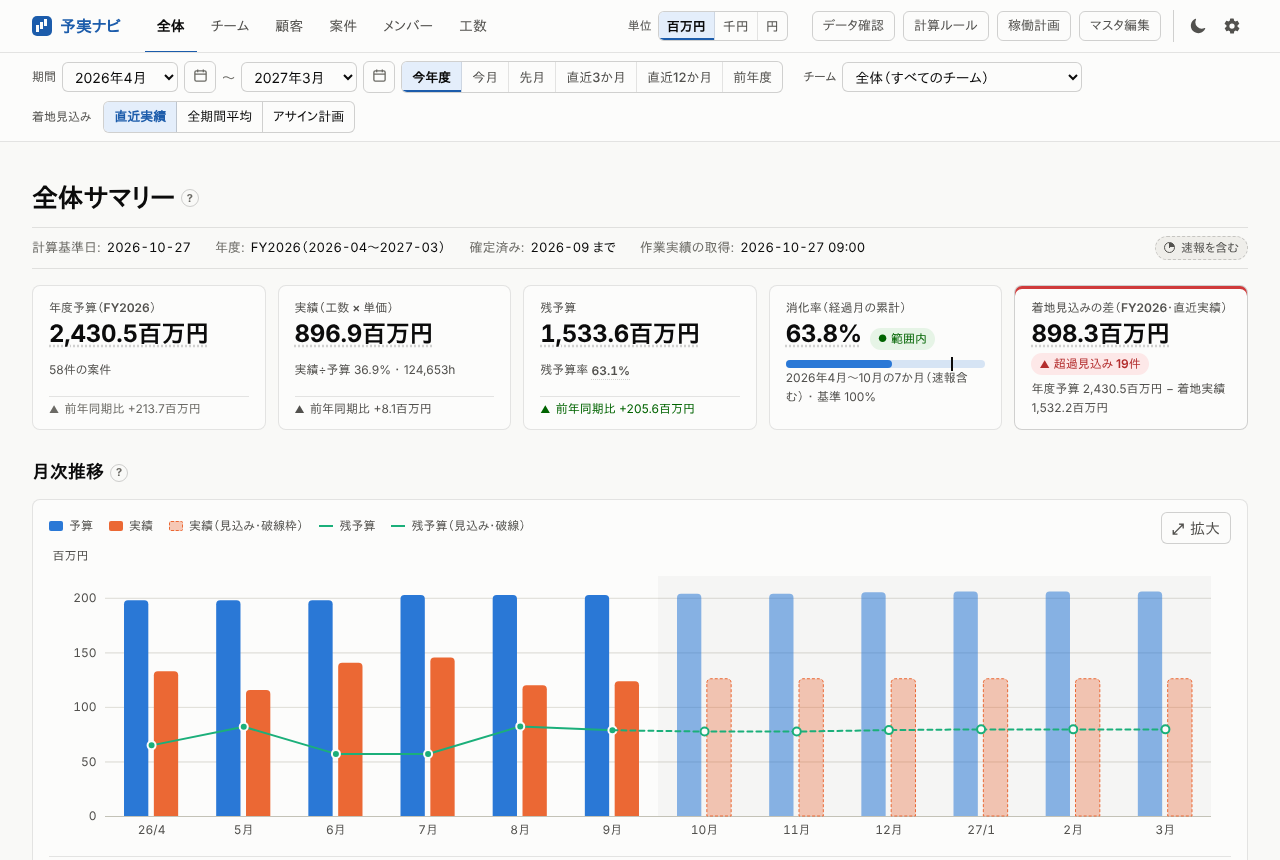
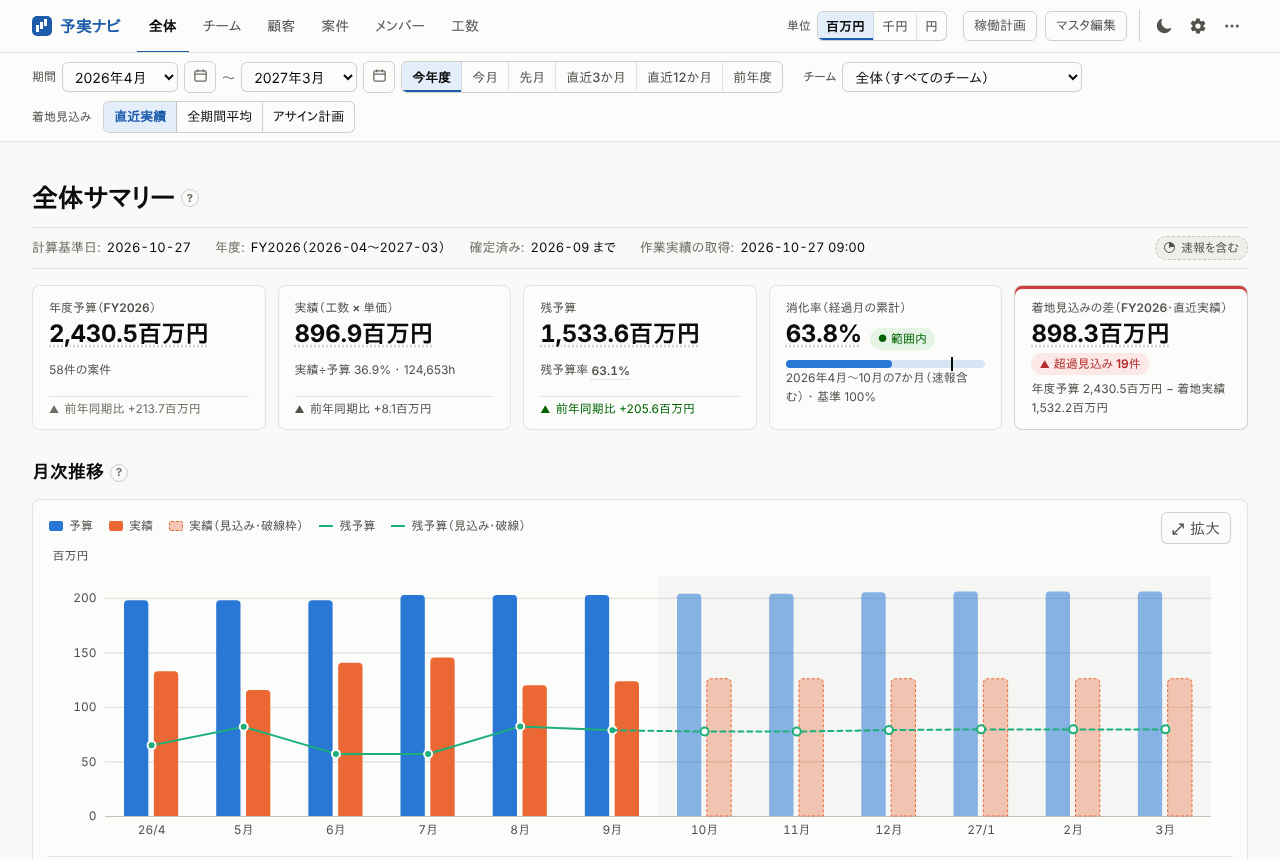
ヘッダー: 稼働計画を右上の先頭に、データ確認・計算ルールは右端「⋯」のメニューへ（SPEC §45）
- 右上のリンクは稼働計画 → マスタ編集だけ。データ確認・計算ルールは「その他」メニュー
- 2 段レイアウトの境目を 1024px に。1024px 以上は 1 段、スマホ幅は 3 段 → 2 段
- E2E: header-nav.spec 追加、navigation・qa-regressions 更新。README・SPEC・UI_NOTES・スクリーンショット更新

Claude-Session: https://claude.ai/code/session_01JvFhvLSWLAzykq6d7HdQrm

Changed region(s): [[0.5, 0.0, 0.9375, 0.0605], [0.2188, 0.0, 0.2812, 0.0605], [0.125, 0.0, 0.1562, 0.0605]]

diff --git a/observablehq.config.js b/observablehq.config.js
@@ -75,7 +75,8 @@ function contractIds() {
 
 /**
  * 上部ナビゲーション（左サイドバーは使わない）。
- * NAV = 画面の切り替えタブ、TOOLS = 右上の補助・管理リンク。match はタブを選択状態にするパス（詳細画面など）。
+ * NAV = 画面の切り替えタブ、TOOLS = 右上の業務リンク、MORE = 右端「その他」（⋯）のメニューに入れる控えめなリンク。
+ * match はタブを選択状態にするパス（詳細画面など）。
  * 新しい画面はここに足す。href は "/" 始まりで書けば Framework がページごとの相対パスに書き換える。
  */
 const NAV = [
@@ -87,10 +88,13 @@ const NAV = [
   { name: ja.app.nav.workload, path: "/workload", match: ["/workload"] },
 ];
 const TOOLS = [
-  { name: ja.app.nav.dataCheck, path: "/data-check" },
-  { name: ja.app.nav.rules, path: "/rules" },
   { name: ja.app.nav.plan, path: "/plan" },
   { name: ja.app.nav.masters, path: "/masters", badge: true },
+];
+// データ確認・計算ルールはたまに見る画面なので、目立つ場所に置かない（§45）
+const MORE = [
+  { name: ja.app.nav.dataCheck, path: "/data-check" },
+  { name: ja.app.nav.rules, path: "/rules" },
 ];
 
 const escapeHtml = (s) => String(s).replace(/[&<>"]/g, (c) => ({ "&": "&amp;", "<": "&lt;", ">": "&gt;", '"': "&quot;" })[c]);
@@ -106,12 +110,15 @@ function header({ path }) {
   const moon = `<svg class="yn-icon-moon" viewBox="0 0 24 24" width="18" height="18" aria-hidden="true"><path fill="currentColor" d="M20.7 14.6A8.5 8.5 0 0 1 9.4 3.3a.8.8 0 0 0-1-.9A10 10 0 1 0 21.6 15.6a.8.8 0 0 0-.9-1z"/></svg>`;
   const sun = `<svg class="yn-icon-sun" viewBox="0 0 24 24" width="18" height="18" aria-hidden="true"><circle cx="12" cy="12" r="4.5" fill="currentColor"/><g stroke="currentColor" stroke-width="2" stroke-linecap="round"><path d="M12 2v2.5M12 19.5V22M2 12h2.5M19.5 12H22M4.9 4.9l1.8 1.8M17.3 17.3l1.8 1.8M4.9 19.1l1.8-1.8M17.3 6.7l1.8-1.8"/></g></svg>`;
   const gear = `<svg viewBox="0 0 24 24" width="18" height="18" aria-hidden="true"><path fill="currentColor" d="M19.4 13a7.6 7.6 0 0 0 0-2l2.1-1.6a.5.5 0 0 0 .1-.6l-2-3.5a.5.5 0 0 0-.6-.2l-2.5 1a7.4 7.4 0 0 0-1.7-1l-.4-2.6a.5.5 0 0 0-.5-.4h-4a.5.5 0 0 0-.5.4l-.4 2.6a7.4 7.4 0 0 0-1.7 1l-2.5-1a.5.5 0 0 0-.6.2l-2 3.5a.5.5 0 0 0 .1.6L4.6 11a7.6 7.6 0 0 0 0 2l-2.1 1.6a.5.5 0 0 0-.1.6l2 3.5c.1.2.4.3.6.2l2.5-1c.5.4 1.1.7 1.7 1l.4 2.6c0 .3.2.4.5.4h4c.3 0 .5-.2.5-.4l.4-2.6c.6-.3 1.2-.6 1.7-1l2.5 1c.2.1.5 0 .6-.2l2-3.5a.5.5 0 0 0-.1-.6L19.4 13zM12 15.5a3.5 3.5 0 1 1 0-7 3.5 3.5 0 0 1 0 7z"/></svg>`;
+  const dots = `<svg viewBox="0 0 24 24" width="18" height="18" aria-hidden="true"><g fill="currentColor"><circle cx="5" cy="12" r="2"/><circle cx="12" cy="12" r="2"/><circle cx="19" cy="12" r="2"/></g></svg>`;
   const settingsOn = path === "/settings";
+  const moreOn = MORE.some(isOn);
+  const more = `<span class="yn-more"><button type="button" class="yn-icon-btn yn-more-btn${moreOn ? " is-current" : ""}" aria-haspopup="true" aria-expanded="false" aria-controls="yn-more-menu" aria-label="${escapeHtml(ja.app.more)}" title="${escapeHtml(ja.app.more)}">${dots}</button><span class="yn-more-menu" id="yn-more-menu" hidden>${MORE.map((i) => link(i, "yn-more-item")).join("")}</span></span>`;
   return `<div class="yn-topbar">
   <a class="yn-brand" href="/"><span class="yn-brand-mark" aria-hidden="true"></span>${escapeHtml(ja.app.name)}</a>
   <nav class="yn-tabs" aria-label="${escapeHtml(ja.app.tabsLabel)}">${NAV.map((i) => link(i, "yn-tab")).join("")}</nav>
   <div id="yn-unit-slot" class="yn-unit-slot"></div>
-  <nav class="yn-tools" aria-label="${escapeHtml(ja.app.toolsLabel)}">${TOOLS.map((i) => link(i, "yn-tool")).join("")}<span class="yn-icon-tools"><button type="button" class="yn-icon-btn yn-theme-toggle" aria-pressed="false" aria-label="${escapeHtml(ja.app.themeToggle)}" title="${escapeHtml(ja.app.themeToggle)}">${moon}${sun}</button><a class="yn-icon-btn yn-settings-link" href="/settings" aria-label="${escapeHtml(ja.app.settings)}" title="${escapeHtml(ja.app.settings)}"${settingsOn ? ' aria-current="page"' : ""}>${gear}</a></span></nav>
+  <nav class="yn-tools" aria-label="${escapeHtml(ja.app.toolsLabel)}">${TOOLS.map((i) => link(i, "yn-tool")).join("")}<span class="yn-icon-tools"><button type="button" class="yn-icon-btn yn-theme-toggle" aria-pressed="false" aria-label="${escapeHtml(ja.app.themeToggle)}" title="${escapeHtml(ja.app.themeToggle)}">${moon}${sun}</button><a class="yn-icon-btn yn-settings-link" href="/settings" aria-label="${escapeHtml(ja.app.settings)}" title="${escapeHtml(ja.app.settings)}"${settingsOn ? ' aria-current="page"' : ""}>${gear}</a>${more}</span></nav>
 </div>
 <div id="yn-filterbar-slot" class="yn-filterbar-slot"></div>`;
 }
@@ -171,8 +178,35 @@ const SCROLL_SCRIPT = `(() => {
   };
   requestAnimationFrame(tick);
 })();`;
+/** 右端「その他」（⋯）のメニュー: 押すと開閉、外を押す・Esc・フォーカスが外れると閉じる */
+const MORE_SCRIPT = `(() => {
+  const parts = () => { const btn = document.querySelector(".yn-more-btn"); return btn ? [btn, document.getElementById("yn-more-menu")] : []; };
+  const set = (open, focusBtn) => {
+    const [btn, menu] = parts();
+    if (!btn) return;
+    btn.setAttribute("aria-expanded", String(open));
+    menu.hidden = !open;
+    if (open) menu.querySelector("a")?.focus();
+    else if (focusBtn) btn.focus();
+  };
+  document.addEventListener("click", (e) => {
+    const [btn] = parts();
+    if (!btn || !(e.target instanceof Element)) return;
+    if (e.target.closest(".yn-more-btn")) set(btn.getAttribute("aria-expanded") !== "true");
+    else if (!e.target.closest(".yn-more-menu")) set(false);
+  });
+  document.addEventListener("keydown", (e) => {
+    const [btn] = parts();
+    if (e.key === "Escape" && btn?.getAttribute("aria-expanded") === "true") set(false, true);
+  });
+  document.addEventListener("focusout", (e) => {
+    const [btn] = parts();
+    if (btn?.getAttribute("aria-expanded") === "true" && e.relatedTarget instanceof Element && !e.relatedTarget.closest(".yn-more")) set(false);
+  });
+  addEventListener("pageshow", () => set(false));
+})();`;
 const BADGE_SCRIPT = mrBadgeScript(badgeConfig(masterEditConfig(), ja.app.mrBadge));
-const head = `<link rel="icon" href="data:,"><meta name="color-scheme" content="light dark"><script>${THEME_SCRIPT}</script><script>${BADGE_SCRIPT}</script><script>${SCROLL_SCRIPT}</script>`;
+const head = `<link rel="icon" href="data:,"><meta name="color-scheme" content="light dark"><script>${THEME_SCRIPT}</script><script>${BADGE_SCRIPT}</script><script>${SCROLL_SCRIPT}</script><script>${MORE_SCRIPT}</script>`;
 
 export default {
   title: ja.app.name,

diff --git a/tests/e2e/header-nav.spec.ts b/tests/e2e/header-nav.spec.ts
@@ -1,0 +1,56 @@
+/**
+ * ヘッダーの並び（SPEC §45）
+ * - 右上は業務の「稼働計画」「マスタ編集」だけ。データ確認・計算ルールは右端「その他」（⋯）のメニューに入れる
+ * - メニューは押すと開き、もう一度押す・外を押す・Esc・フォーカスが外れると閉じる。開いている画面なら ⋯ が選択状態
+ */
+import { test, expect, gotoPage } from "./helpers/app.js";
+
+test("右上は稼働計画 → マスタ編集の順。データ確認・計算ルールは ⋯ のメニューから開ける", { tag: "@smoke" }, async ({ page }) => {
+  await gotoPage(page, "/");
+  await expect(page.locator(".yn-tools a.yn-tool")).toHaveText(["稼働計画", /^マスタ編集/]);
+  const btn = page.getByRole("button", { name: "その他" });
+  const menu = page.locator("#yn-more-menu");
+  await expect(menu).toBeHidden();
+  await expect(btn).not.toHaveClass(/is-current/);
+  await btn.click();
+  await expect(btn).toHaveAttribute("aria-expanded", "true");
+  await expect(menu.locator("a")).toHaveText(["データ確認", "計算ルール"]);
+  await expect(menu.locator("a").first()).toBeFocused();
+  await btn.click();
+  await expect(menu).toBeHidden();
+  await btn.click();
+  await page.mouse.click(500, 600);
+  await expect(menu).toBeHidden();
+  await btn.click();
+  await page.keyboard.press("Escape");
+  await expect(menu).toBeHidden();
+  await expect(btn).toBeFocused();
+  await page.keyboard.press("Enter");
+  await expect(menu).toBeVisible();
+  await page.keyboard.press("Tab");
+  await page.keyboard.press("Tab");
+  await expect(menu).toBeHidden();
+  await btn.click();
+  await menu.getByRole("link", { name: "計算ルール" }).click();
+  await expect(page).toHaveURL(/\/rules/);
+  await expect(page.getByRole("button", { name: "その他" })).toHaveClass(/is-current/);
+  await page.getByRole("button", { name: "その他" }).click();
+  await expect(page.locator("#yn-more-menu a", { hasText: "計算ルール" })).toHaveAttribute("aria-current", "page");
+  await page.locator("#yn-more-menu a", { hasText: "データ確認" }).click();
+  await expect(page).toHaveURL(/\/data-check/);
+  await expect(page.getByRole("heading", { level: 1, name: "データ確認" })).toBeVisible();
+});
+
+for (const width of [390, 320]) {
+  test(`${width}px: ロゴの下に右上のリンクが 1 段で並び、メニューが画面内に収まる`, async ({ page }) => {
+    await page.setViewportSize({ width, height: 800 });
+    await gotoPage(page, "/plan");
+    const tops = await page.locator(".yn-tools a.yn-tool, .yn-icon-tools > *").evaluateAll((els) => els.map((e) => Math.round(e.getBoundingClientRect().top + e.getBoundingClientRect().height / 2)));
+    expect(Math.max(...tops) - Math.min(...tops)).toBeLessThanOrEqual(4);
+    await page.getByRole("button", { name: "その他" }).click();
+    const box = (await page.locator("#yn-more-menu").boundingBox())!;
+    expect(box.x).toBeGreaterThanOrEqual(0);
+    expect(box.x + box.width).toBeLessThanOrEqual(width);
+    expect(await page.evaluate(() => document.documentElement.scrollWidth - document.documentElement.clientWidth)).toBe(0);
+  });
+}

diff --git a/src/style.css b/src/style.css
@@ -173,7 +173,7 @@ body {
 .yn-topbar {
   display: flex;
   align-items: stretch;
-  gap: 8px 24px;
+  gap: 8px 16px;
   min-height: 52px;
   padding: 0 16px;
 }
@@ -251,6 +251,9 @@ body {
   gap: 6px;
   margin: 0;
 }
+.yn-unit-slot .yn-seg {
+  flex-wrap: nowrap;
+}
 .yn-unit-slot .yn-seg-btn {
   min-height: 28px;
   padding: 2px 8px;
@@ -286,8 +289,8 @@ body {
   color: var(--yn-text-1) !important;
   font-weight: 600;
 }
-/* スマホ・タブレット: タブを 2 段目に回して横スクロール（960px 未満は 1 段に収まらない） */
-@media (max-width: 959px) {
+/* スマホ・タブレット: タブを 2 段目に回して横スクロール（1024px 未満は 1 段に収まらない） */
+@media (max-width: 1023px) {
   .yn-topbar {
     flex-wrap: wrap;
     padding-top: 8px;
@@ -3116,9 +3119,52 @@ html:has(dialog.yn-dialog[open]) {
   outline: 2px solid var(--yn-focus);
   outline-offset: 1px;
 }
-.yn-icon-btn[aria-current="page"] {
+.yn-icon-btn[aria-current="page"],
+.yn-more-btn.is-current {
   background: var(--yn-accent-bg);
   color: var(--yn-text-1) !important;
+}
+/* 右端「その他」（⋯）のメニュー: データ確認・計算ルール（§45） */
+.yn-more {
+  position: relative;
+  display: inline-flex;
+}
+.yn-more-btn[aria-expanded="true"] {
+  background: var(--yn-wash-strong);
+  color: var(--yn-text-1) !important;
+}
+.yn-more-menu {
+  position: absolute;
+  top: calc(100% + 4px);
+  right: 0;
+  z-index: 60;
+  display: flex;
+  flex-direction: column;
+  min-width: 9em;
+  padding: 4px;
+  border: 1px solid var(--yn-hairline-strong);
+  border-radius: var(--yn-radius-sm);
+  background: var(--yn-card);
+  box-shadow: 0 4px 16px rgb(0 0 0 / 0.16);
+}
+.yn-more-menu[hidden] {
+  display: none;
+}
+.yn-more-item {
+  padding: 8px 12px;
+  border-radius: var(--yn-radius-sm);
+  color: var(--yn-text-1) !important;
+  font-size: 14px;
+  text-decoration: none;
+  white-space: nowrap;
+}
+.yn-more-item:hover,
+.yn-more-item:focus-visible {
+  background: var(--yn-wash);
+}
+.yn-more-item[aria-current="page"] {
+  background: var(--yn-accent-bg);
+  font-weight: 600;
 }
 .yn-theme-toggle .yn-icon-sun {
   display: none;
@@ -3129,7 +3175,7 @@ html:has(dialog.yn-dialog[open]) {
 :root[data-theme="dark"] .yn-theme-toggle .yn-icon-sun {
   display: block;
 }
-@media (max-width: 959px) {
+@media (max-width: 1023px) {
   .yn-icon-btn {
     width: 30px;
     height: 30px;
@@ -3371,9 +3417,16 @@ html:has(dialog.yn-dialog[open]) {
     flex: 1 1 100%;
   }
 }
-/* スマホ幅: 補助リンクの後ろに折り返すので、区切り線は付けない */
+/* スマホ幅: ロゴと右上のリンクを 1 段に収める（入らない幅では右上のリンクが折り返す）。区切り線は付けない */
 @media (max-width: 639px) {
+  .yn-topbar {
+    column-gap: 8px;
+  }
+  .yn-tools {
+    gap: 6px;
+  }
   .yn-icon-tools {
+    gap: 0;
     margin-left: 0;
     padding-left: 0;
     border-left: 0;

diff --git a/tests/e2e/qa-regressions.spec.ts b/tests/e2e/qa-regressions.spec.ts
@@ -1,7 +1,7 @@
 /**
  * 実操作 QA で見つかった不具合の再発防止
  * - URL の team にプロトタイプのキー（constructor 等）を入れても例外にならず、全体に戻る
- * - 960px 未満でも上部タブがすべて見える（2 段目に回る）
+ * - 1024px 未満でも上部タブがすべて見える（2 段目に回る）。1024px 以上はヘッダーが 1 段（単位のボタンも折り返さない）
  * - 並べ替えは絞り込み・単位の変更や「戻る」で既定に戻らない。絞り込み・検索は「戻る」で復元される
  * - 案件詳細の ID は前後の空白・大文字小文字の違いを許す
  * - 最終 QA（2026-10-29）: 「戻る」でスクロール位置を戻す、「＋ 変更」で ID を変えさせない、色付きの値の読み上げ名、
@@ -23,7 +23,7 @@ for (const team of ["constructor", "__proto__", "toString"]) {
   });
 }
 
-for (const width of [768, 900]) {
+for (const width of [768, 900, 1000]) {
   test(`${width}px 幅で上部タブがすべて見える`, async ({ page }) => {
     await page.setViewportSize({ width, height: 900 });
     await gotoPage(page, "/contracts");
@@ -37,6 +37,20 @@ for (const width of [768, 900]) {
     expect(visible).toBe(true);
   });
 }
+
+test("1024px 幅ではヘッダーが 1 段（タブ・単位・右上のリンク）で、単位のボタンも折り返さない", async ({ page }) => {
+  await page.setViewportSize({ width: 1024, height: 900 });
+  await gotoPage(page, "/");
+  const centers = await page.evaluate(() =>
+    [".yn-brand", ".yn-tabs", ".yn-unit-slot .yn-seg", ".yn-tools"].map((s) => {
+      const r = document.querySelector(s)!.getBoundingClientRect();
+      return Math.round((r.top + r.bottom) / 2);
+    }),
+  );
+  expect(Math.max(...centers) - Math.min(...centers)).toBeLessThanOrEqual(4);
+  const unitTops = await page.locator(".yn-unit-slot .yn-seg-btn").evaluateAll((els) => els.map((e) => Math.round(e.getBoundingClientRect().top)));
+  expect(new Set(unitTops).size).toBe(1);
+});
 
 test("案件一覧: 並べ替え・絞り込み・検索が、絞り込み変更と詳細からの「戻る」で保たれる", async ({ page }) => {
   await gotoPage(page, "/contracts");

diff --git a/tests/e2e/navigation.spec.ts b/tests/e2e/navigation.spec.ts
@@ -96,21 +96,24 @@ test("チーム一覧の木: 折りたたみで配下が隠れ、開くと戻る
   expect(new Set(await rowKeys(tableByCaption(page, "案件一覧")))).toEqual(new Set(expected));
 });
 
-test("上部タブと右上のリンクで全ページに行ける（現在のページは aria-current）", { tag: "@smoke" }, async ({ page }) => {
+test("上部タブ・右上のリンク・「⋯」のメニューで全ページに行ける（現在のページは aria-current）", { tag: "@smoke" }, async ({ page }) => {
   await gotoPage(page, "/");
   const header = page.locator("#observablehq-header");
   await expect(page.locator("#observablehq-sidebar")).toHaveCount(0);
-  for (const [name, h1] of [
-    ["チーム", "チーム一覧"],
-    ["案件", "案件一覧"],
-    ["計算ルール", "計算ルール"],
-    ["データ確認", "データ確認"],
-    ["全体", "全体サマリー"],
+  for (const [name, h1, inMenu] of [
+    ["チーム", "チーム一覧", false],
+    ["案件", "案件一覧", false],
+    ["稼働計画", "稼働計画", false],
+    ["計算ルール", "計算ルール", true],
+    ["データ確認", "データ確認", true],
+    ["全体", "全体サマリー", false],
   ] as const) {
+    // データ確認・計算ルールは右端「その他」（⋯）のメニューの中（§45）
+    if (inMenu) await header.getByRole("button", { name: "その他" }).click();
     const link = header.getByRole("link", { name, exact: true });
     await link.click();
     await expect(page.locator("h1")).toHaveText(h1);
-    await expect(header.getByRole("link", { name, exact: true })).toHaveAttribute("aria-current", "page");
+    await expect(header.getByRole("link", { name, exact: true, includeHidden: true })).toHaveAttribute("aria-current", "page");
   }
   // 案件詳細では「案件」タブが選択状態
   await gotoPage(page, "/contract?id=C008");

diff --git a/src/i18n/ja.js b/src/i18n/ja.js
@@ -25,6 +25,8 @@ export default {
     themeToggle: "ダーク表示",
     // ヘッダー右端の設定（歯車のアイコン）
     settings: "設定",
+    // ヘッダー右端の「その他」（⋯ のアイコン。データ確認・計算ルールのメニューを開く）
+    more: "その他",
     // マスタ編集の横の件数バッジ（読み上げ用。{n} = マージ待ちの件数）
     mrBadge: "マージ待ち {n} 件",
     // 上部タブ

diff --git a/docs/UI_NOTES.md b/docs/UI_NOTES.md
@@ -30,10 +30,10 @@ src/
 
 左サイドバーは使わない（`sidebar: false`）。`observablehq.config.js` の `header()` が全ページ共通のヘッダを出す。
 
-- 1 段目: ロゴ ＋ **画面タブ**（`NAV`: 全体・チーム・顧客・案件・メンバー・工数。現在のページは `aria-current="page"`）＋ 右上に **表示単位**（`#yn-unit-slot`）と **補助リンク**（`TOOLS`: データ確認・計算ルール・稼働計画・マスタ編集）とテーマ切替・設定のアイコン
+- 1 段目: ロゴ ＋ **画面タブ**（`NAV`: 全体・チーム・顧客・案件・メンバー・工数。現在のページは `aria-current="page"`）＋ 右上に **表示単位**（`#yn-unit-slot`）と **業務リンク**（`TOOLS`: 稼働計画・マスタ編集）、テーマ切替・設定・**その他「⋯」**（`MORE`: データ確認・計算ルール。たまに見る画面なので目立たせない。§45）のアイコン
 - 2 段目: **固定フィルタバー**（`#yn-filterbar-slot`）。ページが `mountFilterBar()` を呼んだときだけ表示。期間（開始月・終了月の選択＋カレンダーでの日付指定＋プリセット「今年度・今月・先月・直近3か月・直近12か月・前年度」。データは月単位なので、カレンダーで選んだ日付はその日が属する月として扱う）・チーム・着地見込みを 1 行に並べ、ヘッダごと `position: sticky` で上端に残る。フィルタの無いページ（計算ルール・データ確認）では出ない
 - href は `/teams` のように `/` 始まりで書けば Framework がページごとの相対パスに書き換える（GitLab Pages のサブパス配信でも動く）
-- 960px 未満はタブを 2 段目に回して横スクロール、フィルタも 1 行で横スクロール
+- 1024px 未満はタブを 2 段目に回して横スクロール、フィルタも 1 行で横スクロール。1024px 以上はヘッダーが 1 段（単位のボタンも折り返さない）。スマホ幅はロゴと右上のリンク・アイコンを 1 段、タブを 2 段目
 - スマホ（640px 未満）はヘッダを固定しない（固定すると画面の約 1/4 を占めるため）。表示条件はページ上端に戻って変える
 - 1 段だけのパンくずはタブと重複するので `pageHeader` は 2 段以上のときだけ出す
 
@@ -129,7 +129,7 @@ dataviz スキルの既定パレットで 3 系列: 予算 = 青 `#2a78d6`、実
 1. `src/<name>.md` を作り、先頭に front matter（`title`）と読み込み中スケルトン（`<div id="page-skeleton" class="yn-skeleton">`）を置く。
 2. 最初の `js` セルで `htl` / components / core を import。`const model = await loadJson(FileAttachment("./data/model.json"), {skeleton: "page-skeleton"})`、`const store = model ? createStore(model) : null`、`state = Generators.observe(...)`（既存ページからコピー）。
 3. `pageHeader({...})` → `mountFilterBar(store, model, {show: [...]})` → 本文。セルは `if (vm) {...}` で囲み、`display()` で描く。
-4. `observablehq.config.js` の `pages` に追加し、上部タブに出すなら `NAV`、右上の補助リンクなら `TOOLS` にも追加する（詳細画面は親タブの `match` にパスを足すとそのタブが選択状態になる。案件詳細がその例）。
+4. `observablehq.config.js` の `pages` に追加し、上部タブに出すなら `NAV`、右上の業務リンクなら `TOOLS`、「⋯」のメニューなら `MORE` にも追加する（詳細画面は親タブの `match` にパスを足すとそのタブが選択状態になる。案件詳細がその例）。
 5. 新しいデータが必要なら `src/data/<name>.json.ts` を追加（Node で動く。`_shared.ts` の `emitJson` で出力し `_build: buildStamp()` を付ける。[DATA_LOADERS.md](DATA_LOADERS.md)）。
 
 ## 検証の仕方

diff --git a/README.md b/README.md
@@ -10,7 +10,7 @@
 
 ## 画面
 
-上部タブ（全体・チーム・顧客・案件・メンバー・工数）と右上の補助リンク（データ確認・計算ルール・稼働計画・マスタ編集・設定）で移動します。
+上部タブ（全体・チーム・顧客・案件・メンバー・工数）と右上のリンク（稼働計画・マスタ編集）、右端のアイコン（テーマ・設定・その他「⋯」）で移動します。データ確認・計算ルールは「⋯」のメニューにあります。
 
 | パス | 内容 |
 |---|---|
@@ -20,10 +20,10 @@
 | `/contracts` → `/contract?id=` 案件 | 案件ごとの予実（赤 = 消化率 100% 超 または 超過見込み）→ 案件詳細（月ごと・メンバー別・着地 3 方式・作業ログ） |
 | `/members` → `/member?id=` メンバー | 計画と実績・稼働率 → メンバー詳細（月ごと・案件別・単価の変遷・退職） |
 | `/workload` 工数 | 契約内／契約外の工数（人月）を組織・顧客・メンバー別に。作業種別の内訳 |
-| `/data-check` データ確認 | 未紐付けの作業実績・単価なし・退職後の実績などの警告 |
-| `/rules` 計算ルール | 画面の数値の計算方法 |
 | `/plan` 稼働計画 | リーダーが組織のメンバーの計画を入れる。人ごとに 1 行、開くと案件ごとの行と「契約外予定」の行。途中で人月が変わるときは「＋ 変更」で「何月から何人月」を入れ、いつ変わったかは「変更の履歴」で見る（人月でも時間でも、保存は人月。SPEC §23・§36） |
 | `/masters` マスタ編集 | メンバー・単価・組織の台帳。1 対象 1 行で今の値、開くと適用開始月ごとの変更の履歴。「＋ 変更」で「何月から何に変わるか」を足す（ID は変えられない）。表／CSV で編集し、稼働計画の変更とあわせて GitLab に MR を作る。リーダーがマージ（SPEC §19・§36） |
+| `/data-check` データ確認（「⋯」） | 未紐付けの作業実績・単価なし・退職後の実績などの警告 |
+| `/rules` 計算ルール（「⋯」） | 画面の数値の計算方法 |
 | `/settings` 設定 | GitLab の接続（トークンの登録・接続の確認。権限と、本番の設定の不足も出す。GitLab の設定はこの画面だけ）、テーマ（ライト／ダーク） |
 
 数値をクリックすると「式 ＋ 実際に使った値」の計算根拠が開きます。グラフは右上の「拡大」で大きく表示できます（スマホは全画面。SPEC §33）。

diff --git a/tests/e2e/README.md b/tests/e2e/README.md
@@ -60,6 +60,7 @@ PW_CHROMIUM_PATH=/opt/pw-browsers/chromium E2E_SKIP_BUILD=1 npx playwright test 
 | `chart-zoom.spec.ts` | グラフの拡大表示（ダイアログで描き直す・開く・閉じる・はみ出さない・吹き出し。各画面幅・ライト/ダーク）。SPEC §33 |
 | `ui-controls.spec.ts` | テーマ切替・期間指定・「?」の吹き出し（各画面幅・ライト/ダーク） |
 | `screen-text.spec.ts` | 画面の説明文の量（各画面の本文の文章は合計 120 文字・1 段落 70 文字まで。説明は「?」へ）と、GitLab のトークン入力が設定画面だけにあること。SPEC §37 |
+| `header-nav.spec.ts` | ヘッダーの並び（右上は稼働計画 → マスタ編集、データ確認・計算ルールは「⋯」のメニュー・開閉・選択状態・スマホ幅で 1 段）。SPEC §45 |
 | `scale-data.spec.ts` | 実運用規模のデータ: 退職者の表示、すべて 0 のグラフ、長い名前で 390px からはみ出さない |
 | `qa-regressions.spec.ts` | 実操作 QA で見つけた不具合の再発防止 |
 | `a11y.spec.ts` | Tab 到達、aria-sort、dialog の role、画像の代替、状態チップの文字、390px、ダーク、印刷 |
